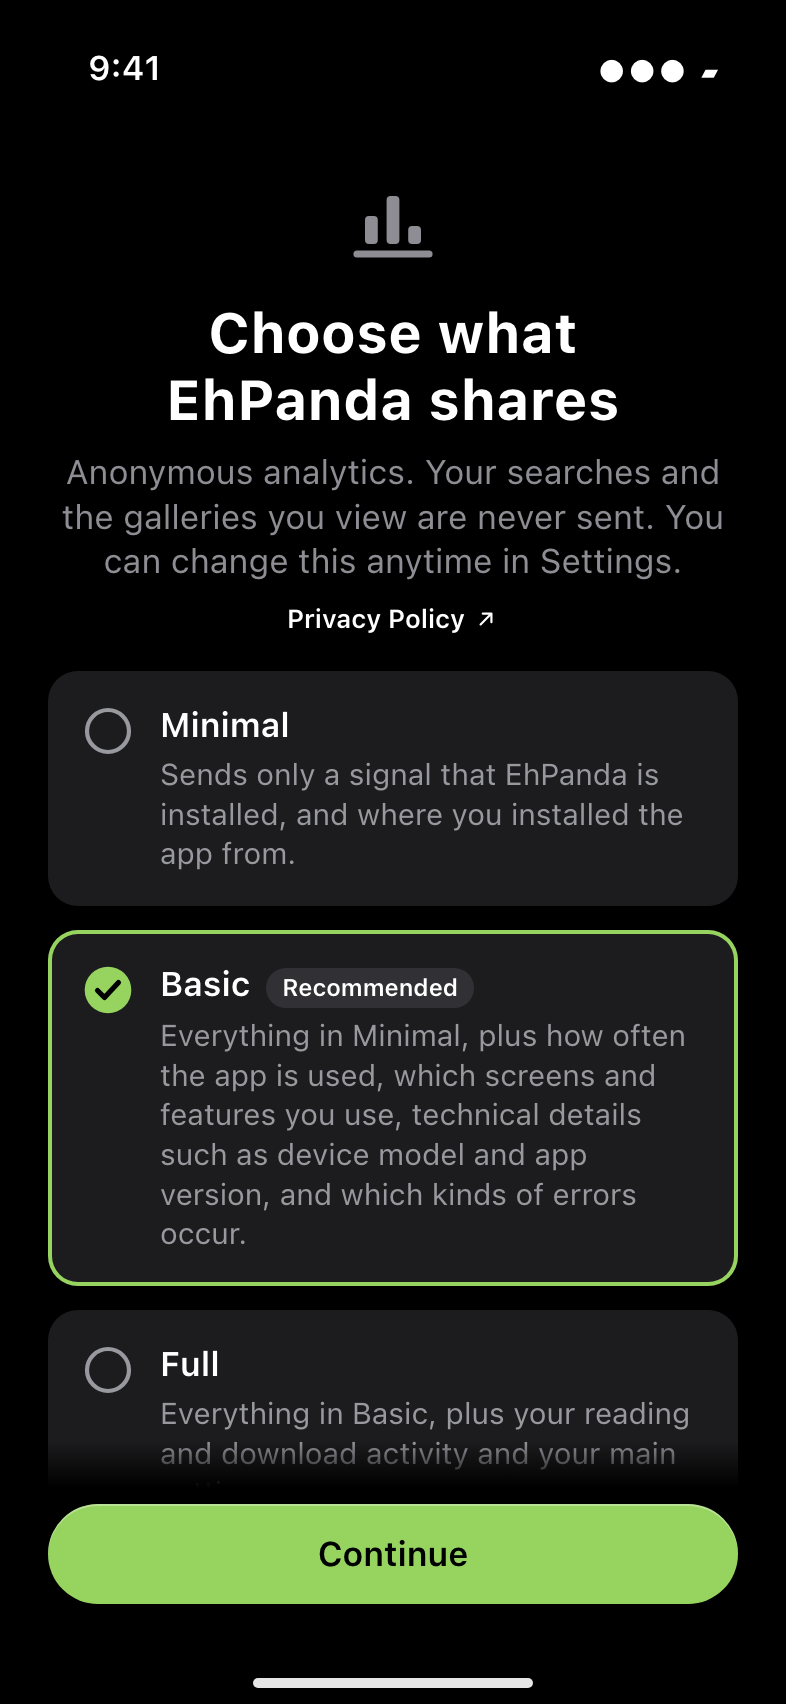
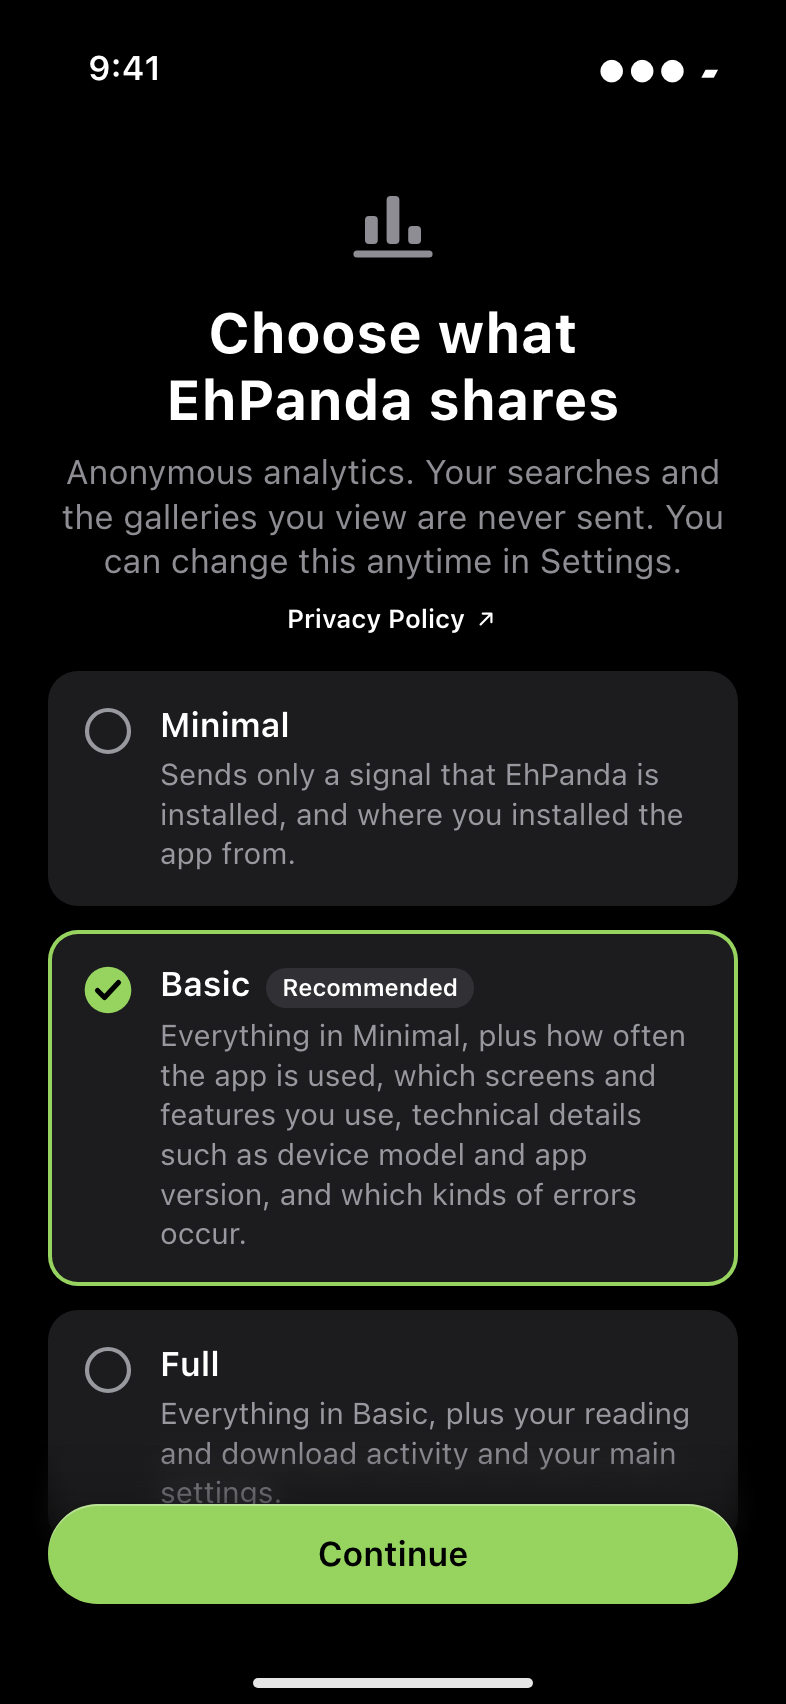
docs(18): refresh the UI-SPEC and mockups for the native Report form (C-13)
Colo's final spec (msg 1978): C-13 Report form for comments only, C-1 "No bar
background" (owner msg 1965), C-4 opening the form directly. Mockups 01-04,
16-18 and 20 re-rendered for the bar rule; 25-31, 33 and 34 added for C-13.
Frame 32 is withdrawn (owner msg 1975: no gallery reports). Phase 18 plans are
unchanged.

Changed region(s): [[0.0611, 0.8398, 0.9466, 0.902]]

diff --git a/.planning/phases/18-in-app-3-0-readiness-age-wall-analytics-choice-comment-moder/18-UI-SPEC.md b/.planning/phases/18-in-app-3-0-readiness-age-wall-analytics-choice-comment-moder/18-UI-SPEC.md
@@ -59,7 +59,9 @@ Non-exhaustive for SwiftUI itself; the executor may use any SwiftUI API that mee
 |-----------|-------------|-------------------|
 | `View.withArrow()` | AppComponents/ViewModifiers.swift | Blocked Users row in Account settings (chevron, AX-hidden) |
 | `AdaptiveStack` / explicit `ViewThatFits(in: .horizontal)` | AppComponents/AdaptiveStack.swift | Collapsed-row layout switch (explicit `ViewThatFits`, because the label has its own line limit — see that file's rule) |
-| `SheetCloseToolbar` | AppComponents/SheetCloseToolbar.swift | Close button of the in-app report web sheet, if that route is used (see C-4) |
+| `SheetCloseToolbar` | AppComponents/SheetCloseToolbar.swift | Close button of the site's report page sheet (C-13 fallback route) |
+| `PostCommentView` toolbar pattern | DetailFeature | Report form sheet: `Button(role: .close)` leading, inline title; no trailing item (C-13) |
+| `.safeAreaBar(edge: .bottom)` + `.glassProminent` | SwiftUI / C-1 | Report form's pinned action button (Send Report / Done / Open Report Page), same build as the first-launch Continue (C-13, owner msg 1955) |
 | `AppAlertState` / `.appAlert` or TCA `AlertState` | AppComponents/AppAlertState.swift | Report, Block and posting-warning alerts |
 | `ContentUnavailableView` | SwiftUI | Blocked Users empty state (same as `LibraryView`, `StateViews`) |
 | `Picker` `.pickerStyle(.menu)` | SwiftUI | Analytics level in Settings (same as Theme picker in `AppearanceSettingView`) |
@@ -81,6 +83,7 @@ Non-exhaustive for SwiftUI itself; the executor may use any SwiftUI API that mee
 | `BlockedCommentRow` | DetailFeature/Comments | Collapsed row in the comments list |
 | `BlockedCommentCard` | DetailFeature | Collapsed card in the Detail comment strip |
 | `BlockedUsersView` | SettingFeature | The Blocked Users list |
+| `ReportFormView` | DetailFeature/Moderation | EhPanda's own Report form sheet and its states (C-13) |
 
 ---
 
@@ -184,7 +187,7 @@ the catalog may rename them, never the text. Nothing on any screen below may say
 | Settings analytics row | `shareAnalyticsData` (existing key, now a picker); section header `analytics` (existing) |
 | Settings analytics footer | the selected level's `consent.level.*.description`; `shareAnalyticsDataFooter` retired |
 | Comment menu | `comment.report` ("Report on {site}"), `comment.block` ("Block %@"), `comment.unblock` ("Unblock %@") |
-| Report confirmation | `comment.report.confirm_title`, `comment.report.confirm_body`, buttons `comment.report.open` + existing `cancel` |
+| Report form (C-13) | `report.*` keys from Camo's `report-form-copy.md` (msg 1960, **approved by the owner, msg 1975**; never reword). Sheet title = `comment.report`; site-page button = `comment.report.open`; `retry`, `cancel` existing. `comment.report.confirm_title` / `_body` are retired with the old alert |
 | Destructive confirmation | Block: `comment.block.confirm_title` / `comment.block.confirm_body`, buttons `comment.block.confirm` (destructive) + `cancel` |
 | Posting warning | `comment.filter.title` / `comment.filter.body`, buttons `comment.filter.edit` (default) + `comment.filter.post_anyway` |
 | Collapsed row | `comment.blocked_row`, buttons `comment.blocked_row.show`, `blocked_users.unblock` ("Unblock", no name — the row never shows the name) |
@@ -214,11 +217,16 @@ Numbers C-1…C-12 are referenced from UI Considerations. Mockup frame numbers i
   is not a sheet or a cover over the app: nothing of the app is rendered behind it.
 - Background `systemGroupedBackground`, edge to edge. No navigation bar, no back, no close, no skip.
 - Content: `ScrollView` → `VStack(spacing: 0)` capped at 560pt, centred, side margins 24pt.
-- **Continue bar:** `.safeAreaBar(edge: .bottom)` (soft scroll-edge effect under it) holding `FirstLaunchContinueButton`
+- **Continue bar:** `.safeAreaBar(edge: .bottom)` holding `FirstLaunchContinueButton`
   full column width, 8pt top, 16pt bottom above the safe area. **Pinned at every text size** (owner msg 1903),
   including accessibility sizes: the button alone is ≈ 18% of an iPhone screen at AX5, which keeps Continue one tap
   away without scrolling. The bar holds only the button; the age-wall footnote's place depends on size (C-2 item 6).
   The last scroll item ends 24pt above the bar (the bar's safe-area inset handles the rest) [16, 17, 18].
+- **No bar background (owner msg 1965).** Don't give the bar or its `HStack`/`VStack` any `.background`, material or
+  `Color` fill, and no divider. The only thing behind the button is the system scroll-edge effect: the content scrolls
+  under the bar and blurs/fades there. Set it explicitly on the scroll view: `.scrollEdgeEffectStyle(.soft, for: .bottom)`
+  (iOS 26+ SDK). At rest the top of the bar is invisible; with content behind it you see blurred text, never a band.
+  This applies to every pinned bottom bar in Phase 18: Continue (C-1/C-2) and the Report form's action bar (C-13).
 - `FirstLaunchContinueButton`: `Button { } label: { Text(age_wall.continue).frame(maxWidth: .infinity) }`,
   `.buttonStyle(.glassProminent)`, `.controlSize(.large)`, `.tint(.accentColor)`, label colour per Color (on-accent),
   `.keyboardShortcut(.defaultAction)`. `.disabled(...)` per screen.
@@ -317,6 +325,8 @@ selected, label = name + description; for Basic, name + "Recommended" + descript
 
 ### C-4 · Comment menu (comments list and Detail strip) [05, 09, 22]
 
+Report now opens the Report form (C-13) directly; the report alert is gone.
+
 Items, in this order:
 
 | Comment state | Item 1 | Item 2 |
@@ -340,11 +350,7 @@ Entry points (all three show the same `CommentModerationMenu` content):
 
 Existing swipe actions (vote up/down, edit) are unchanged.
 
-**Report confirmation** [06]: alert. Title `comment.report.confirm_title`, message `comment.report.confirm_body`
-({site} + %@ filled). Buttons: `cancel` (role `.cancel`), `comment.report.open` (no role). On Open: open the
-gallery's report page (`?report=select`). Route is the developer's call:
-in-app sheet that carries the app's sign-in (large detent, `SheetCloseToolbar`, no title) is preferred because the
-site's form needs the session — `AccountSettingView` already presents `WebView(url:)` in a sheet this way; the default browser is acceptable. The copy fits both.
+**Report** (owner msg 1931): no alert any more. Report opens EhPanda's own form sheet directly — see C-13.
 
 **Block confirmation** [07]: alert. Title `comment.block.confirm_title`, message `comment.block.confirm_body`.
 Buttons: `cancel` (`.cancel`), `comment.block.confirm` (`.destructive`). Alerts (not confirmation dialogs) for both
@@ -450,6 +456,97 @@ Changing the level takes effect immediately (DD-09). No confirmation when loweri
 - `ContentUnavailableView { Label(blocked_users.empty, systemSymbol: .handRaised) }` — no description, no action.
   The section footer is not shown when empty (it says "these users").
 
+
+### C-13 · Report form (owner msg 1931: "Our own form") [25–34]
+
+Replaces the report alert and the web sheet as the first route. The site's report page stays as the fallback.
+Copy: Camo's `report-form-copy.md` (msg 1960), approved by the owner (msg 1975). Reports are from comments only:
+the owner ruled out a gallery-level Report, now and later, unless App Review requires it (msg 1975).
+
+**Presentation.** `.sheet` from the comments list or the Detail strip. iPhone: `.presentationDetents([.large])`;
+iPad and wide windows: the standard form sheet (system size, centred). `NavigationStack` inside, toolbar: leading
+`Button(role: .close)` only, `.navigationTitle(comment.report)` ("Report on {site}"), `.toolbarTitleDisplayMode(.inline)`.
+No trailing toolbar button. `.interactiveDismissDisabled(true)` while the form has any user edits (reason picked or
+anything typed beyond the prefill) and while sending — Close is the deliberate exit. No discard alert (nothing new
+approved; the form is short).
+
+**Pinned action bar (owner msg 1955: "safeAreaBar here too").** The sheet's one action lives in
+`.safeAreaBar(edge: .bottom)`, built exactly like the first-launch Continue (C-1): full-width `Button`
+`.buttonStyle(.glassProminent)` `.controlSize(.large)`, label `.headline`, white label light / black label dark,
+16pt side insets, 8pt top inset, 16pt above the safe area (the home indicator; the sheet's bottom on iPad). The
+form scrolls under it with the soft scroll-edge effect and nothing else behind the button: no background fill (see
+C-1 "No bar background"). With the keyboard up, the bar rides on top of the keyboard
+(the safe area does this by itself; no `.toolbar(.keyboard)`) with 8pt above the keyboard — frame 26. Label wraps at
+large sizes, the button grows (min 50pt) [33]. One button per state:
+- Ready / loading: `report.send` ("Send Report" — Camo msg 1960). Disabled (system dim) until enabled, rule below.
+- Sending: same button, disabled, label becomes `ProgressView()` + `report.sending` in an `HStack(spacing: 8)` [27].
+- Sent: `report.sent.done` [28]. Unavailable: `comment.report.open` [30].
+- Failed: the bar keeps Send Report live under the alert (the alert owns the choice) [29].
+Swap labels without animation (Reduce Motion or not) so the bar never jumps; the bar height follows the label.
+
+**Form** (`Form`, inset grouped, the Settings look) [25, 26]:
+1. Intro, no section chrome: `report.intro`, `.subheadline` `.secondary`, as the first section's header with
+   `.textCase(nil)` (or a `Text` row with `.listRowBackground(Color.clear)`; developer's call — it must read as
+   plain text above the first card, 4pt above the Reason header).
+2. Section header `report.reason`. One row per reason, `.body` primary, whole row is a button, selection shown by a
+   trailing `checkmark` (`.body` semibold, accent) — the same single-choice list the system uses in Settings.
+   `.accessibilityAddTraits(.isSelected)` on the picked row. Nothing picked when the sheet opens.
+   **Opened from a comment (owner msg 1950, "Illegal content only"):** exactly two rows, `report.reason.child`
+   then `report.reason.illegal`. No Copyright, no technical reasons, no spam reason — spam is handled by Block.
+   Section footer, only when one of the two illegal-content reasons is picked: `report.help.illegal_warning`
+   (`.footnote` `.secondary` — the system footer style; not red: it's information, and red stays reserved for
+   destructive actions).
+3. Section header `report.email`. One `TextField` (placeholder `report.email.placeholder`), `.keyboardType(.emailAddress)`,
+   `.textContentType(.emailAddress)`, `.textInputAutocapitalization(.never)`, `.autocorrectionDisabled()`,
+   `.submitLabel(.next)` → focuses Details. Footer: `report.email.footer`.
+   Invalid email: validate on Send only (not while typing). If invalid, focus the field and replace the footer
+   with `report.email.invalid` in `.red` footnote plus `exclamationmark.circle` before it; VoiceOver announces it
+   (`AccessibilityNotification.Announcement`). It returns to the normal footer on the next edit.
+   Signed-in users: prefill the email the site remembers for the account, if the loaded form carries one; never
+   store it in EhPanda.
+4. Section header `report.details`. `TextField(axis: .vertical)` with `.lineLimit(5...)` (grows; min ~5 lines),
+   `.body`. Opened from a comment it starts with the English prefill block (Camo's file), cursor placed after the
+   blank line, and gets focus once a reason is picked (not on open — the keyboard would hide the reasons).
+   Footer: when an illegal-content reason is picked, `report.help.illegal` first, then a blank line, then
+   `report.comment_footer`; otherwise only `report.comment_footer`.
+5. Send Report is enabled when: a reason is picked, the email field is non-empty, and Details contains text beyond
+   the prefill. Disabled = the system's dimmed `.glassProminent` button (same as Continue).
+
+**No gallery reports (owner msg 1975).** There is no gallery-level Report entry point, now or later, unless App
+Review requires one. Don't ship `report.reason.updates/.restore/.copyright` or `report.help.updates/.restore/.copyright`.
+Frame 32 is withdrawn.
+
+**States**
+- Loading [31] (fetching the site's form): the sheet opens at once with the toolbar and the pinned Send Report
+  (dimmed) and, centred,
+  a `ProgressView()` above `report.loading` (`.body` `.secondary`, 12pt gap). No skeleton. Shows only if the fetch
+  takes > 0.3s (avoid a flash).
+- Ready [25, 26]: the form.
+- Sending [27]: the pinned button shows the spinner + `report.sending` (above); the form gets `.disabled(true)`
+  (system dims it), Close is disabled, the sheet can't be swiped away. No overlay.
+- Sent [28]: the sheet's content is replaced in place by a centred block: `checkmark.circle.fill` 64pt accent
+  (`.symbolEffect(.bounce)` once, off with Reduce Motion), `report.sent.title` `.title3` bold, `report.sent.body`
+  `.body` `.secondary`. Toolbar Close and title are removed; the pinned button becomes `report.sent.done`.
+  Success haptic (`.sensoryFeedback(.success)`). VoiceOver focus moves to the title. Done dismisses; swiping down
+  also dismisses. No auto-dismiss.
+- Failed [29] (network error or the site answers with an error): alert over the kept form. Title
+  `report.failed.title`, message `report.failed.body`, buttons in this order: `retry` (default), `comment.report.open`,
+  `cancel` (role `.cancel`). Everything typed stays. Retry sends again; Open Report Page opens the site's page in
+  the web sheet over the form.
+- Unavailable [30] (the site's form couldn't be read — page changed or no network on open):
+  `ContentUnavailableView { Label(report.unavailable.title, systemSymbol: .exclamationmarkTriangle) } description:
+  { Text(report.unavailable.body) }` with no actions inside it; the pinned button becomes `comment.report.open`.
+  Toolbar keeps Close.
+
+**Largest text** [33]: everything wraps, the form scrolls under the pinned bar; reason rows grow in height; the
+pinned button grows with its label (never truncates); Close keeps the system size. **iPad** [34]: form sheet, same
+content, pinned bar at the sheet's bottom; keyboard Return in Email moves to Details; ⌘↩ triggers the pinned button
+when it is enabled (`.keyboardShortcut(.return, modifiers: .command)`).
+
+**Accessibility:** reason rows are buttons with `.isSelected`; the pinned button's name is its visible label; while
+disabled it reads as dimmed (no extra hint — the form's footers say what's needed); VoiceOver order: Close, title,
+form, then the pinned button; the warning footer is read after the reasons; the prefill is ordinary editable text.
+
 ---
 
 ## UI Considerations
@@ -463,8 +560,12 @@ Applicable state considerations resolved: 21 covered, 3 backstop, 0 unresolved.
 | empty | Blocked Users list | ✅ covered | `ContentUnavailableView` with `blocked_users.empty`, footer hidden |
 | empty | Blocked Users row, nobody blocked | ✅ covered | Row shows count "0" and still pushes the list |
 | loading | First-launch screens, Settings, Blocked Users | ✅ covered | No loading state: everything is local and instant |
-| loading | Report page | ✅ covered | Handled by the web sheet / browser; the app shows no spinner of its own |
-| error | Report page fails to load | ✅ covered | Shown by the web view / browser; no app error copy (none approved, none needed) |
+| loading | Report form | ✅ covered | Spinner + `report.loading` after 0.3s (C-13, frame 31) |
+| loading | Sending a report | ✅ covered | Pinned button spinner + Sending…, form disabled, sheet locked (frame 27) |
+| success | Report sent | ✅ covered | In-sheet confirmation, pinned button becomes Done (frame 28) |
+| error | Report form can't be read | ✅ covered | Unavailable view with Open Report Page (frame 30) |
+| error | Report send fails | ✅ covered | Alert: Retry / Open Report Page / Cancel, form kept (frame 29) |
+| error | Invalid email | ✅ covered | Checked on Send; red footer `report.email.invalid`, field focused |
 | error | Privacy page offline | ✅ covered | Opens in the browser, which shows its own error |
 | success | Block | ✅ covered | Comment collapses in place; no toast; VoiceOver focus moves to the collapsed row |
 | success | Unblock (row, menu, list) | ✅ covered | Comments expand / row removes; no toast |
@@ -498,18 +599,19 @@ Applicable state considerations resolved: 21 covered, 3 backstop, 0 unresolved.
 ### SF Symbols used
 
 `square`, `checkmark.square.fill`, `circle`, `checkmark.circle.fill`, `chart.bar.xaxis`, `arrow.up.right`,
-`ellipsis`, `exclamationmark.bubble`, `hand.raised`, `hand.raised.slash`, `eye.slash`, `chevron.right` (existing via
+`ellipsis`, `exclamationmark.bubble`, `exclamationmark.triangle`, `exclamationmark.circle`, `checkmark`, `hand.raised`, `hand.raised.slash`, `eye.slash`, `chevron.right` (existing via
 `withArrow`). All available on iOS 27 through SFSafeSymbols.
 
 ### Mockup index (`mockups/`)
 
 01 age wall light, unticked · 02 age wall dark, ticked · 03 analytics light, as it opens (nothing picked, Basic recommended) · 04 analytics dark,
-Basic picked · 05 comment menu · 06 report confirmation · 07 block confirmation dark · 08 collapsed row · 09 revealed row +
+Basic picked · 05 comment menu · (06 retired: report alert removed) · 07 block confirmation dark · 08 collapsed row · 09 revealed row +
 Unblock menu, dark · 10 posting warning · 11 Detail strip collapsed card · 12 General settings light (analytics) · 13 General settings dark,
 Minimal · 14 Blocked Users with swipe · 15 Blocked Users empty, dark · 16/17 age wall AX5 top/bottom · 18 analytics
 AX5 · 19 collapsed row AX5 · 20 iPad age wall landscape · 21 iPad analytics portrait dark · 22 iPad comments with a
 pointer (hover on `…`, menu open, collapsed row on one line) · 23 Account settings light, signed in, Blocked
-Users row · 24 Account settings dark, signed out, nobody blocked.
+Users row · 24 Account settings dark, signed out, nobody blocked · 25 Report form as it opens · 26 Report form dark, typing,
+Send Report above the keyboard · 27 sending · 28 sent · 29 send failed alert, dark · 30 form unavailable, dark · 31 loading · (32 withdrawn) · 33 Report form at largest text · 34 iPad Report form sheet.
 
 ---
 
